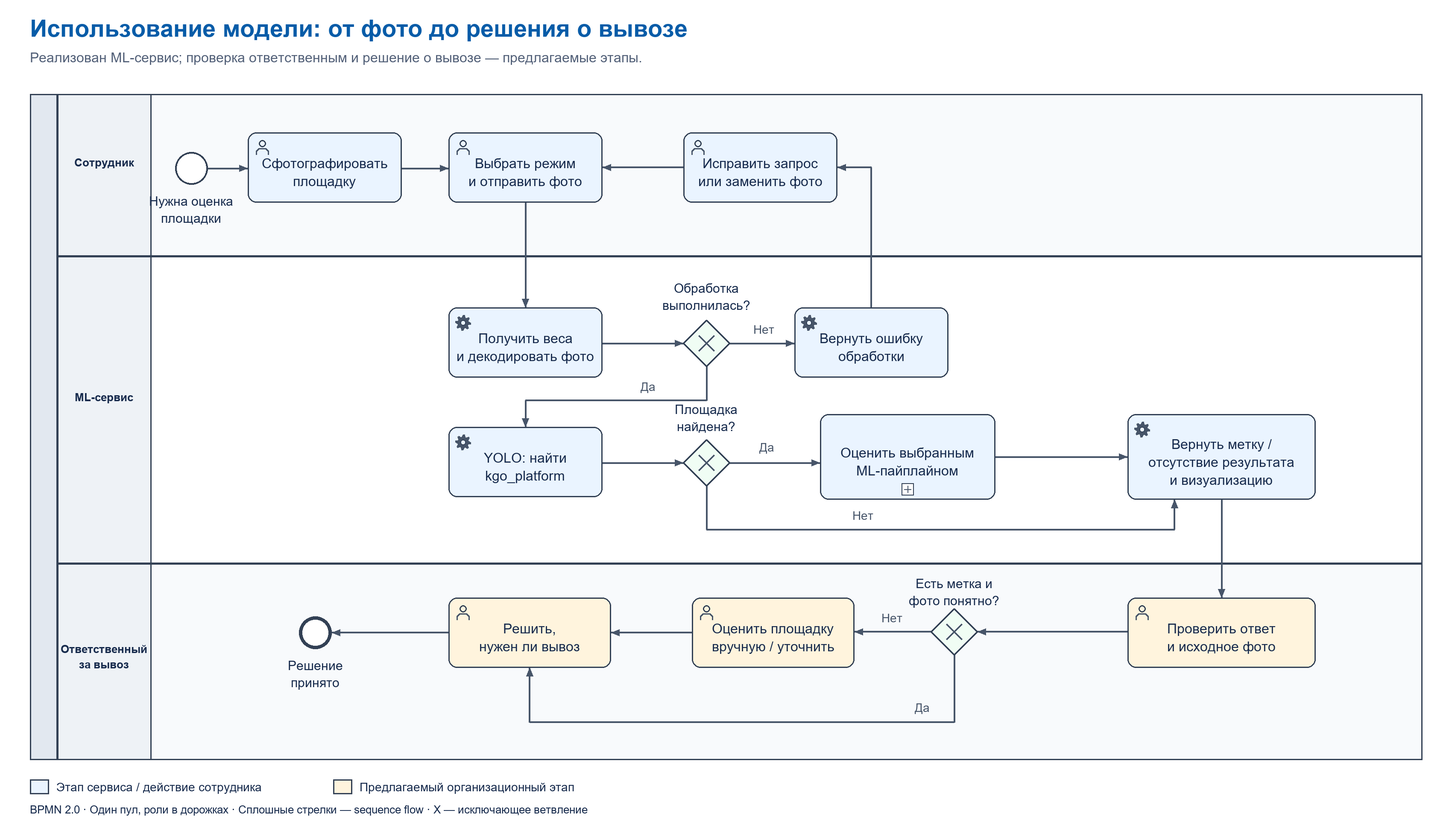
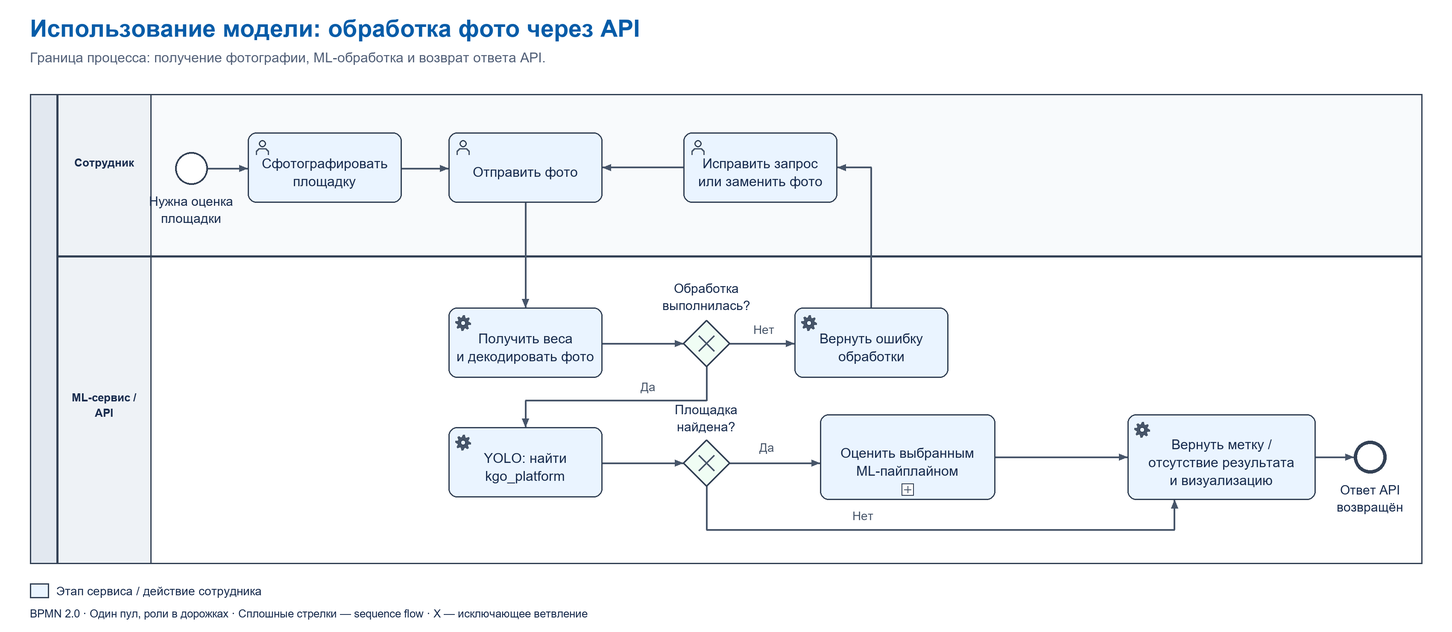
Updated READMEs

diff --git a/docs/diagrams/generate_diagrams.py b/docs/diagrams/generate_diagrams.py
@@ -184,8 +184,9 @@ def export(stem, title, subtitle, lanes, nodes, flows, width, height):
         draw_node(c, n)
     c.rect(35, height-57, 22, 17, "#eaf4ff")
     c.text(66, height-43, "Этап сервиса / действие сотрудника", size=14, anchor="start")
-    c.rect(390, height-57, 22, 17, "#fff4dd")
-    c.text(421, height-43, "Предлагаемый организационный этап", size=14, anchor="start")
+    if any(n.proposed for n in nodes):
+        c.rect(390, height-57, 22, 17, "#fff4dd")
+        c.text(421, height-43, "Предлагаемый организационный этап", size=14, anchor="start")
     c.text(35, height-17, "BPMN 2.0 · Один пул, роли в дорожках · Сплошные стрелки — sequence flow · X — исключающее ветвление", size=13, anchor="start")
     c.save(stem)
 
@@ -254,7 +255,7 @@ def model_use():
     nodes = [
         Node("Start", "startEvent", "Нужна оценка\nплощадки", 0, 205, 178, 38, 38),
         Node("Photo", "userTask", "Сфотографировать\nплощадку", 0, 290, 155),
-        Node("Upload", "userTask", "Выбрать режим\nи отправить фото", 0, 525, 155),
+        Node("Upload", "userTask", "Отправить фото", 0, 525, 155),
         Node("Correct", "userTask", "Исправить запрос\nили заменить фото", 0, 800, 155),
         Node("Input", "serviceTask", "Получить веса\nи декодировать фото", 1, 525, 360),
         Node("ErrorGate", "exclusiveGateway", "Обработка\nвыполнилась?", 1, 800, 375, 54, 54, label_xy=(827, 343)),
@@ -263,11 +264,7 @@ def model_use():
         Node("Zone", "exclusiveGateway", "Площадка\nнайдена?", 1, 800, 515, 54, 54, label_xy=(827, 485)),
         Node("Score", "subProcess", "Оценить выбранным\nML-пайплайном", 1, 960, 485, 205, 100),
         Node("Reply", "serviceTask", "Вернуть метку /\nотсутствие результата\nи визуализацию", 1, 1320, 485, 220, 100),
-        Node("Review", "userTask", "Проверить ответ\nи исходное фото", 2, 1320, 700, 220, 82, True),
-        Node("Clear", "exclusiveGateway", "Есть метка и\nфото понятно?", 2, 1090, 713, 54, 54, True, label_xy=(1117, 689)),
-        Node("Manual", "userTask", "Оценить площадку\nвручную / уточнить", 2, 810, 700, 190, 82, True),
-        Node("Decision", "userTask", "Решить,\nнужен ли вывоз", 2, 525, 700, 190, 82, True),
-        Node("End", "endEvent", "Решение\nпринято", 2, 350, 722, 38, 38, True),
+        Node("End", "endEvent", "Ответ API\nвозвращён", 1, 1585, 516, 38, 38),
     ]
     flows = [
         Flow("Start", "Photo", [(243,197),(290,197)]),
@@ -282,17 +279,12 @@ def model_use():
         Flow("Zone", "Score", [(854,542),(960,542)], "Да", (898,529), "найдена площадка"),
         Flow("Zone", "Reply", [(827,569),(827,620),(1375,620),(1375,585)], "Нет", (1010,609), "площадка не найдена"),
         Flow("Score", "Reply", [(1165,535),(1320,535)]),
-        Flow("Reply", "Review", [(1430,585),(1430,700)]),
-        Flow("Review", "Clear", [(1320,740),(1144,740)]),
-        Flow("Clear", "Manual", [(1090,740),(1000,740)], "Нет", (1044,729), "нет метки или фото неоднозначно"),
-        Flow("Clear", "Decision", [(1117,767),(1117,846),(620,846),(620,782)], "Да", (1080,834), "есть метка и фото понятно"),
-        Flow("Manual", "Decision", [(810,741),(715,741)]),
-        Flow("Decision", "End", [(525,741),(388,741)]),
+        Flow("Reply", "End", [(1540,535),(1585,535)]),
     ]
-    export("model-use", "Использование модели: от фото до решения о вывозе",
-           "Реализован ML-сервис; проверка ответственным и решение о вывозе — предлагаемые этапы.",
-           [("Сотрудник",110,190),("ML-сервис",300,360),("Ответственный\nза вывоз",660,230)],
-           nodes, flows, 1700, 970)
+    export("model-use", "Использование модели: обработка фото через API",
+           "Граница процесса: получение фотографии, ML-обработка и возврат ответа API.",
+           [("Сотрудник",110,190),("ML-сервис /\nAPI",300,360)],
+           nodes, flows, 1700, 740)
 
 
 def model_retraining():

diff --git a/README.md b/README.md
@@ -1,6 +1,6 @@
 # Определение заполненности площадок КГО по фотографиям
 
-Учебный проект по дисциплине «Проектный практикум»: автоматизация определения заполненности площадок для крупногабаритных отходов (КГО) по фотографиям, которые отправляет сотрудник. Заказчик проекта — **СБЕР**. Сервис помогает оценить состояние площадки и предоставить данные для решения о необходимости вывоза отходов.
+Учебный проект по дисциплине «Проектный практикум»: автоматизация определения заполненности площадок для крупногабаритных отходов (КГО) по фотографиям, которые отправляет сотрудник. Заказчик проекта — **СБЕР**. Результат разработки — сервис с API для обработки фотографий и получения оценки состояния площадки.
 
 Приложение на FastAPI принимает фотографию, запускает выбранный ML-пайплайн и возвращает метку состояния и изображение с результатом. В двух режимах дополнительно рассчитывается доля площади, занятой мусором. Это оценка по двумерному изображению, а не измерение объёма отходов или физической вместимости площадки.
 
@@ -16,19 +16,20 @@
 - [Docker](#docker)
 - [CI/CD](#cicd)
 - [Подготовка датасета и обучение](#подготовка-датасета-и-обучение)
+- [Автоматизация разработки](#автоматизация-разработки)
 
 ## Сценарий работы и результаты
 
 1. Сотрудник фотографирует площадку и загружает фото через Web-интерфейс или `POST /api/predict`.
 2. Приложение получает веса выбранного пайплайна и преобразует изображение в RGB.
 3. YOLO ищет объект с именем класса `kgo_platform`.
-4. Классификатор или сегментатор оценивает обнаруженную область; приложение формирует единый JSON-ответ и визуализацию.
-5. Ответственный сотрудник использует результат при проверке площадки и принятии решения о вывозе. Этот организационный этап предлагается в BPMN; его автоматизация в коде отсутствует.
+4. Классификатор или сегментатор оценивает обнаруженную область.
+5. Приложение возвращает JSON-ответ с результатом и визуализацией. На этом обработка запроса завершается.
 
 | Значение | Смысл | Как интерпретировать |
 | --- | --- | --- |
 | `kgo_empty` | Модель относит площадку к незаполненным | Не обязательно полное отсутствие мусора: для сегментации это значение ниже порога |
-| `kgo_full` | Модель относит площадку к заполненным | Основание для проверки и решения ответственным сотрудником |
+| `kgo_full` | Модель относит площадку к заполненным | Результат классификации состояния площадки |
 | `""`, `predictions: []` | Площадка не найдена или классификатор полного фото выбрал `kgo_none` | Результат отсутствует; это **не** подтверждение пустой площадки |
 | `fill_percentage` | Оценка заполненности по маске | Число для SAM/SMP при наличии результата; `null` для режима классификации |
 
@@ -58,7 +59,7 @@
 | DeepLabV3+ / SE-ResNeXt50, `best_model_SMP.pth` | Семантическая сегментация на четыре класса | [MC-05: SMP](docs/model-cards.md#mc-05-deeplabv3-с-энкодером-se-resnext50) |
 | ResNet18/34/50, ConvNeXt-Tiny и исследовательский EfficientNetV2-S | Сравнение бинарных классификаторов кропа | [MC-06: семейство экспериментальных классификаторов](docs/model-cards.md#mc-06-экспериментальные-классификаторы-кропов) |
 
-Отдельная [MC-07: карточка всей системы](docs/model-cards.md#mc-07-система-из-трёх-пайплайнов) описывает предоставленные метрики подходов. Для каждого режима в таблице указано 235 фото; дата оценки, состав выборки и версии весов не предоставлены. Числа перенесены из [исходного снимка](docs/evaluation/pipeline-metrics-provided.png):
+Результаты сравнения трёх пайплайнов на 235 фотографиях в каждом режиме приведены ниже. Подробности — в [карточке системы MC-07](docs/model-cards.md#mc-07-система-из-трёх-пайплайнов) и [таблице результатов](docs/evaluation/pipeline-metrics-provided.png).
 
 | Pipeline | Total | Accuracy | Macro Precision | Macro Recall | Macro F1 | Weighted F1 | No Zone | Errors |
 | --- | ---: | ---: | ---: | ---: | ---: | ---: | ---: | ---: |
@@ -66,7 +67,7 @@
 | `sam` | 235 | 0.8000 | 0.9032 | 0.6043 | 0.6320 | 0.7648 | 5 | 0 |
 | `smp` | 235 | 0.8681 | 0.8578 | 0.8066 | 0.8298 | 0.8749 | 5 | 0 |
 
-В этом сравнении режим с двумя классификаторами имеет лучшие accuracy и macro F1, что поддерживает его текущий выбор по умолчанию. У него также больше ответов без зоны: 9/235 (**3.83%**) против 5/235 (**2.13%**) у SAM/SMP. Эти метрики относятся ко всему пайплайну и не являются показателями отдельного YOLO, EfficientNet или сегментатора. Итоговая оценка сегментационных подходов не равна качеству их масок; для этого нужны IoU/Dice.
+Режим с двумя классификаторами лидирует по accuracy и macro F1 и используется по умолчанию. Доля ответов без зоны составляет 9/235 (**3.83%**) против 5/235 (**2.13%**) у SAM/SMP. Метрики характеризуют полный пайплайн; качество отдельных сегментаторов дополнительно оценивается через IoU/Dice.
 
 Доступные режимы и правила принятия решения:
 
@@ -80,11 +81,11 @@
 
 ## BPMN: использование модели
 
-![BPMN: оценка площадки КГО и решение о вывозе](docs/diagrams/model-use.png)
+![BPMN: обработка фотографии и возврат ответа API](docs/diagrams/model-use.png)
 
-Диаграмма показывает общий бизнес-процесс с дорожками сотрудника, ML-сервиса и ответственного за вывоз. Ошибка обработки возвращает сотрудника к исправлению запроса. Отсутствие площадки даёт ответ без метки и ведёт к ручной оценке, а не к признанию площадки пустой. Подпроцесс оценки раскрыт в таблице режимов выше.
+Диаграмма описывает обработку фотографии в границах сервиса: сотрудник отправляет фото, API получает веса, выполняет детекцию и ML-оценку, затем возвращает ответ. При ошибке обработки входа сотрудник может исправить запрос или заменить фото. Если площадка не найдена, API возвращает отсутствие результата.
 
-**Реализовано:** загрузка фото, выбор режима, получение весов, детекция, оценка, Web/JSON-ответ. **Предлагается как бизнес-процесс:** ручная проверка и решение о вывозе. Учёт заявок, отправка сообщений, интеграция с системами СБЕР и организация вывоза в репозитории не реализованы. Проверка входа на диаграмме означает декодирование фото и обработку ошибок; отдельного автоматического контроля ракурса, освещения или резкости нет.
+Конечное событие — возврат ответа API. Дальнейшее использование результата заказчиком находится за границами проекта и диаграммы. Подпроцесс ML-оценки раскрыт в таблице режимов выше.
 
 ## BPMN: переобучение модели
 
@@ -92,13 +93,13 @@
 
 [Открыть SVG](docs/diagrams/model-retraining.svg) · [Редактируемая BPMN 2.0](docs/diagrams/model-retraining.bpmn)
 
-Это **предлагаемый процесс**, адаптированный к приложенному примеру: старт по расписанию или сигналу мониторинга → новые данные → разметка → обучение → экспертная валидация → шлюз качества → выпуск либо уведомление и журналирование → возврат к мониторингу. Для выпуска добавлены проверка сервиса и откат при неудаче. Наличие training-скриптов не означает, что этот процесс уже оркестрируется автоматически.
+Диаграмма описывает **целевой процесс переобучения**: запуск по расписанию или сигналу мониторинга → сбор и разметка данных → обучение → экспертная валидация → шлюз качества → выпуск версии либо регистрация отказа → мониторинг. После выпуска проверяется работа сервиса; при сбое выполняется откат к предыдущей версии.
 
 1. Запускать цикл при плановом пересмотре или выявленном падении качества, росте доли отсутствующих результатов, появлении новых типов площадок.
 2. Собирать новые фото и проверенные ответы, удалять дубликаты, размечать `kgo_platform`, состояние площадки и маски `фон / пол / стена / мусор` для соответствующих моделей.
 3. Версионировать данные; разделять train/validation/test по площадкам и сериям съёмки **до** создания кропов. Независимый test не использовать для настройки кандидата.
 4. Обучать нужные компоненты, проверять кандидата и весь пайплайн на фиксированной выборке. Эксперт оценивает ошибки и качество разметки.
-5. Пропускать кандидата через заранее согласованные критерии качества. Порог `AUC > 0.8` из примера не используется: он не проверяет качество масок, детектора и итогового бизнес-решения.
+5. Проверять кандидата по согласованным критериям качества детекции, классификации, сегментации и итогового ответа сервиса.
 6. При успешной проверке выпускать новую версию весов, обновлять model cards и конфигурацию, перезапускать сервис и проверять работу. При неудаче сохранять прежнюю версию либо откатывать выпуск, регистрировать причину и возвращаться к мониторингу.
 
 | Объект проверки | Метрики для шлюза качества | Состояние в проекте |
@@ -106,11 +107,11 @@
 | YOLO | mAP@50:95 и recall класса `kgo_platform` на независимых фото | В ноутбуке есть метрики, но разделение train/val требует исправления |
 | Классификаторы | Macro F1, recall `kgo_full`, confusion matrix; ROC-AUC только при корректной работе со score | Расчёт бинарных метрик есть; для трёх классов AUC требует отдельного multiclass-расчёта |
 | SAM / SMP | IoU/Dice класса мусора и mIoU при одинаковом протоколе оценки | Есть notebook-оценка; методики SAM и SMP различаются |
-| Весь сервис | Итоговые F1/recall, доля ответов без метки, ошибок инференса и задержка | Скрипт оценки считает классификационные метрики и количество отсутствующих результатов/ошибок; мониторинг и замер задержки предлагаются |
+| Весь сервис | Итоговые F1/recall, доля ответов без метки, ошибок инференса и задержка | Скрипт оценки считает классификационные метрики и количество отсутствующих результатов/ошибок; мониторинг и замер задержки относятся к развитию сервиса |
 
-Численные пороги приёмки не зафиксированы в репозитории и должны быть согласованы с заказчиком. Предлагаемое правило шлюза: отсутствие ухудшения относительно действующей версии по macro F1, recall `kgo_full`, доле ответов без зоны и ошибкам в пределах заранее согласованных допусков. Кандидата и baseline нужно пересчитать на одной независимой выборке и проверить срезы: освещение, сезон, тип площадки, камера и ракурс. Показатель `0.9534` из предоставленной таблицы — наблюдение на конкретной выборке, а не универсальный SLA. Согласованные пороги — условие шлюза, а не заявленные достигнутые показатели.
+Критерии приёмки и допустимые отклонения согласуются с заказчиком. Кандидат сравнивается с действующей версией на одинаковой независимой выборке по macro F1, recall `kgo_full`, доле ответов без зоны и ошибкам. Дополнительно проверяются освещение, сезон, тип площадки, камера и ракурс. Результаты конкретного эксперимента не используются как универсальный SLA.
 
-Автоматического scheduler, реестра экспериментов, мониторинга качества и автоматического retraining/deploy/rollback сейчас нет. GitHub Actions проверяет код и собирает Docker image, но не обучает модели. BPMN-файлы с `isExecutable="false"` служат документацией и не являются готовым workflow для исполнения. Нотация: [OMG BPMN 2.0.2](https://www.omg.org/spec/BPMN/2.0.2). Исходник рисунков — [generate_diagrams.py](docs/diagrams/generate_diagrams.py).
+В репозитории реализованы скрипты подготовки данных, обучения и оценки. Автоматическая оркестрация переобучения, мониторинг качества и откат относятся к развитию системы. GitHub Actions отвечает за проверки кода и сборку Docker-образа. BPMN-файлы с `isExecutable="false"` описывают порядок работы. Нотация: [OMG BPMN 2.0.2](https://www.omg.org/spec/BPMN/2.0.2); генератор диаграмм — [generate_diagrams.py](docs/diagrams/generate_diagrams.py).
 
 ## Быстрый запуск
 
@@ -255,11 +256,12 @@ docker run --rm -p 8000:8000 `
 
 ## CI/CD
 
-Workflow `.github/workflows/ci.yml` выполняет:
+Workflow [ci.yml](.github/workflows/ci.yml) запускается для pull request в `main` и push в `main`:
 
 - unit tests через `pytest`;
-- проверку PEP8/runtime-кода через `ruff`;
-- сборку Docker image;
+- проверку кода через `ruff`;
+- pre-commit-проверки YAML, TOML и конфликтов слияния;
+- сборку Docker image после успешных проверок при push в `main`;
 - публикацию Docker image в Docker Hub при наличии repository secrets:
   `DOCKERHUB_USERNAME` и `DOCKERHUB_TOKEN`.
 
@@ -271,14 +273,11 @@ DOCKERHUB_USERNAME/project-urfu-2026
 
 ## Подготовка датасета и обучение
 
-Скрипты подготовки датасета и обучения сохранены в `datasetCreation`, `NewClassificatorNoDino`, `SAM_model` и `SMP_model`.
-Они не требуются для запуска Web/API приложения, но оставлены в репозитории как исследовательская и training-часть проекта.
+Подготовка датасетов, обучение и исследовательские эксперименты находятся в `datasetCreation`, `NewClassificatorNoDino`, `SAM_model` и `SMP_model`. Описание моделей, параметров и результатов — в [model cards](docs/model-cards.md).
 
 ## Автоматизация разработки
 
-Python: 3.11. Для локальных проверок используется стандартное окружение `venv`,
-`pip`, Ruff, pytest и pre-commit. В Git сохраняются конфигурация проверок
-и `requirements-ci.txt`, а не сама папка `.venv`.
+Для локальных проверок используется Python 3.11, окружение `venv`, Ruff, pytest и pre-commit. Зависимости проверок перечислены в `requirements-ci.txt`, конфигурация hook — в [.pre-commit-config.yaml](.pre-commit-config.yaml).
 
 В Windows PowerShell из корня Git-репозитория:
 
@@ -291,8 +290,4 @@ py -3.11 -m venv .venv
 .\.venv\Scripts\python.exe -m pytest -q
 ```
 
-Подробности: `docs/AUTOMATION_SETUP.md`.
-Для полноценного запуска ML-приложения потребуются отдельные зависимости
-из `fastapi_app/requirements.txt`; специальные CUDA-зависимости
-из корневого `requirements.txt` не устанавливайте поверх тестового
-окружения без проверки совместимости.
+Зависимости Web/API перечислены в `fastapi_app/requirements.txt`. Корневой `requirements.txt` предназначен для отдельного исследовательского окружения с CUDA.

diff --git a/docs/model-cards.md b/docs/model-cards.md
@@ -7,7 +7,7 @@
 - **Веса:** релиз `v1` репозитория `likip3/AI-Models`.
 - **Данные:** фотографии и аннотации CVAT/Datumaro; для сегментации — PNG-маски.
 - **Факторы качества:** освещение, осадки, перекрытия, перспектива, тип площадки и размер объекта в кадре.
-- **Применение:** поддержка решения о вывозе. Отсутствие результата и сомнительные фото требуют ручной проверки; процент по маске характеризует площадь на изображении, а не объём отходов.
+- **Применение:** оценка состояния площадки по фотографии и выдача результата через API. Отсутствие детекции не означает пустую площадку; процент по маске характеризует площадь на изображении, а не объём отходов.
 - **Работа с данными:** ограничивать доступ к персональным сведениям; разделять площадки и серии съёмки между выборками до создания кропов.
 
 ## MC-01: YOLO-детектор площадки
